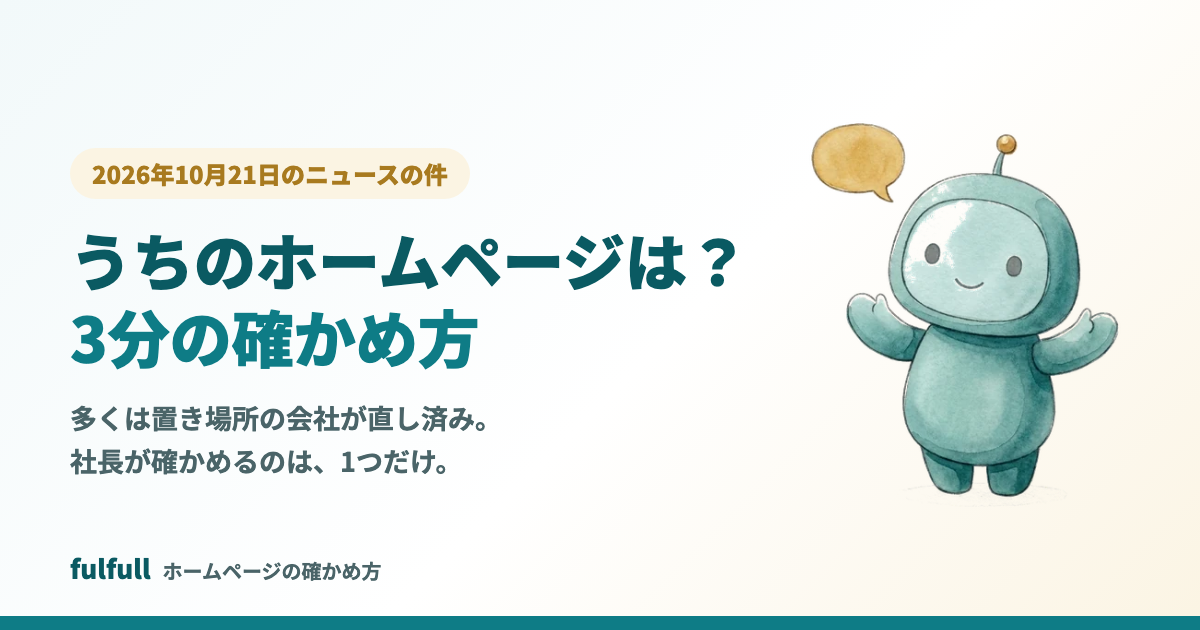
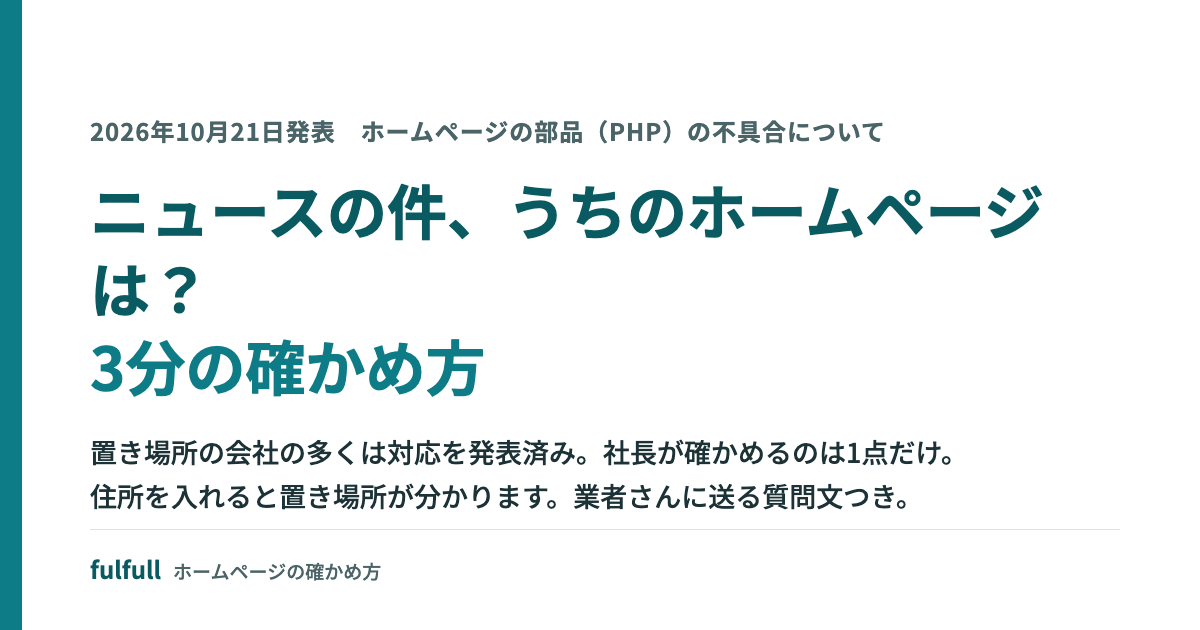
確かめ方ページを落ち着いた会社向けの見た目に（ロボ・絵文字・動きを外す）

Changed region(s): [[0.0617, 0.181, 0.9558, 0.8143], [0.0, 0.0, 1.0, 1.0], [0.0617, 0.8746, 0.3083, 0.9349]]

diff --git a/check/index.html b/check/index.html
@@ -19,94 +19,89 @@
 <link rel="preconnect" href="https://fonts.gstatic.com" crossorigin>
 <link rel="stylesheet" href="https://fonts.googleapis.com/css2?family=Noto+Sans+JP:wght@500;700;800;900&display=swap">
 <style>
-:root{color-scheme:light;--teal:#0E7C86;--deep:#0A5A62;--ink:#1C3236;--ink2:#4A6468;--soft:#EEF6F7;--line:#D5E4E6;--gold:#7F5C14;--goldfill:#D9A441;--goldbg:#FBF4E3;--bg:#fff;--ok:#1E7D5A;--okbg:#EAF6F0;--ng:#A8483A;--ngbg:#FBEEEB;--gray:#5E6B6D;--graybg:#F1F3F3;--lineg:#06C755;--font:"Noto Sans JP","Hiragino Sans","Hiragino Kaku Gothic ProN",sans-serif}
+:root{color-scheme:light;--teal:#0E7C86;--deep:#0A5A62;--ink:#1C3236;--ink2:#4A6468;--soft:#F3F7F8;--line:#D5E4E6;--gold:#7F5C14;--goldfill:#D9A441;--goldbg:#FBF4E3;--bg:#fff;--ok:#1E7D5A;--okbg:#EAF6F0;--ng:#A8483A;--ngbg:#FBEEEB;--gray:#5E6B6D;--graybg:#F1F3F3;--lineg:#06C755;--font:"Noto Sans JP","Hiragino Sans","Hiragino Kaku Gothic ProN",sans-serif}
 *{box-sizing:border-box}html{scroll-behavior:smooth}
 body{margin:0;background:var(--bg);color:var(--ink);font-family:var(--font);font-size:18px;font-weight:500;line-height:1.9}
 img{max-width:100%;height:auto}a{color:var(--teal);font-weight:700}
 p{margin:0 0 .9em}p,li,h1,h2,h3,dd{text-wrap:pretty}h1,h2,h3,li,td,summary,.note{word-break:auto-phrase}
-b,strong{font-weight:800;color:var(--deep)}
+b,strong{font-weight:700;color:var(--deep)}
 .wrap{max-width:980px;margin:0 auto;padding-inline:20px}.narrow{max-width:760px;margin:0 auto;padding-inline:20px}
 .note{font-size:15.5px;color:var(--ink2)}
-h1{font-size:clamp(28px,5.6vw,44px);font-weight:900;line-height:1.35;margin:0 0 14px;color:var(--deep);text-wrap:balance}
+h1{font-size:clamp(27px,5vw,40px);font-weight:700;line-height:1.4;margin:0 0 16px;color:var(--deep);text-wrap:balance}
 h1 em{font-style:normal;color:var(--teal)}
-h2{font-size:clamp(24px,4.2vw,32px);font-weight:900;line-height:1.4;margin:0 0 16px;color:var(--deep);text-wrap:balance}
-h3{font-size:20px;font-weight:800;margin:0 0 8px;color:var(--teal)}
-section{padding-block:52px}section.soft{background:var(--soft)}
-.top{position:sticky;top:0;z-index:10;background:rgba(255,255,255,.96);border-bottom:1px solid var(--line)}
-.top .wrap{display:flex;align-items:center;justify-content:space-between;gap:12px;padding-block:10px}
-.brand{display:flex;align-items:baseline;gap:8px;text-decoration:none;color:var(--deep);min-width:0}.brand b{font-size:20px}.brand span{font-size:14px;color:var(--ink2);font-weight:700;white-space:nowrap}
-.top .mini{background:var(--lineg);color:#fff;border-radius:999px;padding:8px 16px;font-size:15px;text-decoration:none;white-space:nowrap;font-weight:800}
-.hero{padding-block:40px 36px;background:linear-gradient(180deg,#F6FBFB 0%,#fff 100%)}
-.hero .wrap{display:grid;grid-template-columns:1.25fr .75fr;gap:28px;align-items:center}
-.hero img{width:100%;max-width:300px;justify-self:center;animation:bob 4s ease-in-out infinite}
-@keyframes bob{0%,100%{transform:translateY(0)}50%{transform:translateY(-7px)}}
-.eyebrow{display:inline-block;background:var(--goldbg);color:var(--gold);border-radius:999px;padding:4px 14px;font-weight:800;font-size:14.5px;margin-bottom:12px}
-.lead{font-size:19px;color:var(--ink2)}
-.btn{display:inline-block;background:var(--lineg);color:#fff;text-decoration:none;font-weight:900;font-size:18px;border-radius:999px;padding:16px 28px;box-shadow:0 6px 18px rgba(6,199,85,.28);transition:transform .15s}
-.btn:hover{transform:translateY(-2px)}
-.btn.teal{background:var(--teal);box-shadow:0 6px 18px rgba(14,124,134,.25)}
-.btn.outline{background:#fff;color:var(--deep);border:2px solid var(--line);box-shadow:none}
-.btn.sm{font-size:16px;padding:11px 20px;box-shadow:none}
+h2{font-size:clamp(22px,3.8vw,28px);font-weight:700;line-height:1.45;margin:0 0 16px;color:var(--deep);text-wrap:balance;padding-left:14px;border-left:4px solid var(--teal)}
+h3{font-size:19px;font-weight:700;margin:0 0 8px;color:var(--deep)}
+section{padding-block:48px}section.soft{background:var(--soft)}
+.top{position:sticky;top:0;z-index:10;background:#fff;border-bottom:1px solid var(--line)}
+.top .wrap{display:flex;align-items:center;justify-content:space-between;gap:12px;padding-block:12px}
+.brand{display:flex;align-items:baseline;gap:10px;text-decoration:none;color:var(--deep);min-width:0}.brand b{font-size:19px;font-weight:700}.brand span{font-size:14px;color:var(--ink2);font-weight:500;white-space:nowrap}
+.top .mini{background:var(--lineg);color:#fff;border-radius:6px;padding:8px 16px;font-size:15px;text-decoration:none;white-space:nowrap;font-weight:700}
+.hero{padding-block:44px 40px;border-bottom:1px solid var(--line)}
+.hero .wrap{display:grid;grid-template-columns:1fr;gap:20px}
+.eyebrow{display:block;color:var(--ink2);font-weight:700;font-size:14.5px;letter-spacing:.04em;margin-bottom:14px}
+.lead{font-size:18.5px;color:var(--ink)}
+.btn{display:inline-block;background:var(--lineg);color:#fff;text-decoration:none;font-weight:700;font-size:18px;border-radius:6px;padding:15px 28px}
+.btn.teal{background:var(--teal)}
+.btn.outline{background:#fff;color:var(--deep);border:1px solid var(--deep)}
+.btn.sm{font-size:16px;padding:11px 20px}
 .btnnote{text-wrap:balance;font-size:15.5px;color:var(--ink2);margin-top:8px}
-.scene{background:#fff;border:2px solid var(--line);border-radius:18px;padding:22px 24px;margin:18px 0}
-.scene .q{font-weight:800;color:var(--deep);font-size:19px}
+.scene{background:var(--soft);border-left:4px solid var(--teal);padding:20px 24px;margin:0 0 22px}
+.scene .q{font-weight:700;color:var(--deep);font-size:18.5px}
 .checks{list-style:none;padding:0;margin:18px 0;display:grid;gap:10px}
-.checks li{padding-left:40px;position:relative;font-weight:700;color:var(--deep)}
-.checks li:before{content:"✓";position:absolute;left:0;top:2px;width:28px;height:28px;border-radius:50%;background:var(--teal);color:#fff;font-weight:900;display:grid;place-items:center;font-size:16px}
+.checks li{padding-left:34px;position:relative;font-weight:700;color:var(--deep)}
+.checks li:before{content:"";position:absolute;left:4px;top:11px;width:16px;height:9px;border-left:3px solid var(--teal);border-bottom:3px solid var(--teal);transform:rotate(-45deg)}
 .checks span{display:block;font-weight:500;color:var(--ink);font-size:17px}
 .tatoe{display:grid;grid-template-columns:1fr 1fr 1fr;gap:12px;margin:22px 0;align-items:stretch}
-.tatoe div{background:#fff;border-radius:16px;padding:18px;text-align:center;border:2px solid var(--line);min-width:0}
-.tatoe .ic{font-size:40px;line-height:1;margin-bottom:8px}
+.tatoe>div{background:#fff;border:1px solid var(--line);padding:18px;min-width:0}
+.tatoe .ic{width:40px;height:40px;margin-bottom:10px;color:var(--teal)}
+.tatoe .ic svg{width:40px;height:40px;stroke:currentColor;fill:none;stroke-width:1.8;stroke-linecap:round;stroke-linejoin:round}
 .tatoe b{display:block;font-size:17px}
 .tatoe small{text-wrap:balance;display:block;color:var(--ink2);font-size:15px;line-height:1.6;margin-top:6px}
-.robo{display:flex;gap:14px;align-items:flex-start;margin:22px 0}
-.robo img{width:84px;flex:0 0 auto}
-.robo .bub{flex:1;min-width:0;background:#fff;border:2px solid var(--line);border-radius:18px;padding:14px 18px;position:relative;font-size:18px}
-.robo .bub:before{content:"";position:absolute;left:-12px;top:26px;border:7px solid transparent;border-right-color:var(--line)}
-.robo .bub .who{display:block;font-size:14.5px;color:var(--ink2);font-weight:700;margin-bottom:4px}
-.koe{display:flex;flex-wrap:wrap;gap:10px;margin:14px 0 18px}
-.koe span{background:#fff;border:2px solid var(--line);border-radius:999px;padding:6px 16px;font-weight:700;color:var(--deep);font-size:16.5px}
+.memo{background:#fff;border:1px solid var(--line);border-top:3px solid var(--teal);padding:16px 20px;margin:22px 0;font-size:18px}
+.memo .who{display:block;font-size:14.5px;color:var(--ink2);font-weight:700;margin-bottom:4px}
+.koe{display:grid;gap:8px;margin:14px 0 18px;padding:0;list-style:none}
+.koe li{padding:8px 16px;border-left:3px solid var(--goldfill);font-weight:700;color:var(--deep);font-size:17px;background:#fff}
 .steps{counter-reset:s;display:grid;gap:28px;margin:20px 0}
-.step{display:grid;grid-template-columns:52px 1fr;gap:14px;align-items:start}
-.step:before{counter-increment:s;content:counter(s);width:52px;height:52px;border-radius:50%;background:var(--teal);color:#fff;font-weight:900;font-size:24px;display:grid;place-items:center}
-.step>div{min-width:0;border-left:3px solid var(--line);padding-left:16px}
+.step{display:grid;grid-template-columns:48px 1fr;gap:14px;align-items:start}
+.step:before{counter-increment:s;content:counter(s);width:48px;height:48px;background:var(--deep);color:#fff;font-weight:700;font-size:22px;display:grid;place-items:center}
+.step>div{min-width:0;border-left:1px solid var(--line);padding-left:16px}
 .step h3{margin-top:8px}
-.checker{background:#fff;border:3px solid var(--teal);border-radius:20px;padding:22px 22px;margin:14px 0}
-.checker label{display:block;font-weight:800;color:var(--deep);margin-bottom:8px}
+.checker{background:#fff;border:1px solid var(--line);border-top:3px solid var(--teal);padding:22px 22px;margin:14px 0}
+.checker label{display:block;font-weight:700;color:var(--deep);margin-bottom:8px}
 .upd{font-size:14.5px;color:var(--ink2);margin:0 0 10px}
 .inrow{display:flex;gap:10px;flex-wrap:wrap}
-.inrow input{flex:1 1 240px;min-width:0;font:inherit;font-size:19px;padding:14px 16px;border:2px solid var(--line);border-radius:12px}
+.inrow input{flex:1 1 240px;min-width:0;font:inherit;font-size:19px;padding:13px 16px;border:1px solid #9FB8BB;border-radius:6px}
 .inrow input:focus{outline:3px solid var(--goldfill);outline-offset:2px;border-color:var(--teal)}
-.inrow button{font:inherit;font-weight:900;font-size:18px;background:var(--teal);color:#fff;border:0;border-radius:12px;padding:14px 24px;cursor:pointer}
+.inrow button{font:inherit;font-weight:700;font-size:18px;background:var(--teal);color:#fff;border:0;border-radius:6px;padding:13px 24px;cursor:pointer}
 .inrow button:disabled{opacity:.6;cursor:wait}
-.result{margin-top:18px;display:none;overflow-wrap:anywhere}
+.result{margin-top:18px;display:none;overflow-wrap:anywhere;border-top:1px solid var(--line);padding-top:16px}
 .result .head{display:flex;gap:10px;align-items:center;flex-wrap:wrap;margin-bottom:10px}
-.tag{display:inline-block;border-radius:999px;padding:4px 14px;font-weight:900;font-size:15px}
+.tag{display:inline-block;border-radius:4px;padding:3px 12px;font-weight:700;font-size:15px}
 .tag.ok{background:var(--okbg);color:var(--ok)}.tag.ng{background:var(--ngbg);color:var(--ng)}.tag.gray{background:var(--graybg);color:var(--gray)}.tag.gold{background:var(--goldbg);color:var(--gold)}
-.result .host{font-size:22px;font-weight:900;color:var(--deep)}
+.result .host{font-size:21px;font-weight:700;color:var(--deep)}
 .result dl{display:grid;grid-template-columns:auto 1fr;gap:6px 14px;margin:12px 0;font-size:18px}
-.result dt{font-weight:800;color:var(--ink2);white-space:nowrap}.result dd{margin:0;min-width:0}
+.result dt{font-weight:700;color:var(--ink2);white-space:nowrap}.result dd{margin:0;min-width:0}
 .result .src{font-size:15px;color:var(--ink2)}
 .result .next{display:flex;gap:10px;flex-wrap:wrap;margin-top:12px}
-.copybox{background:var(--soft);border-radius:14px;padding:16px 18px;position:relative;font-size:18px;white-space:pre-wrap;line-height:1.8}
-.copybtn{display:inline-block;margin-top:10px;font:inherit;font-weight:900;font-size:16px;background:var(--teal);color:#fff;border:0;border-radius:999px;padding:10px 20px;cursor:pointer}
+.copybox{background:var(--soft);border:1px solid var(--line);padding:16px 18px;position:relative;font-size:18px;white-space:pre-wrap;line-height:1.8}
+.copybtn{display:inline-block;margin-top:10px;font:inherit;font-weight:700;font-size:16px;background:var(--teal);color:#fff;border:0;border-radius:6px;padding:10px 20px;cursor:pointer}
 .copybtn.done{background:var(--ok)}
-.cta{background:var(--deep);color:#fff;padding:40px 22px;text-align:center;border-radius:22px}
-.cta h2{color:#fff}.cta p{color:#D9ECEE}.cta .btnnote{color:#E6F3F4;font-size:16px}
-.cta .btn{font-size:20px;padding:18px 34px}
+.cta{background:var(--deep);color:#fff;padding:36px 24px;text-align:center}
+.cta h2{color:#fff;border-left:0;padding-left:0}.cta p{color:#D9ECEE}.cta .btnnote{color:#E6F3F4;font-size:16px}
+.cta .btn{font-size:19px;padding:17px 34px}
 .price{display:grid;grid-template-columns:1fr 1fr;gap:16px;margin:18px 0}
-.price div{background:#fff;border:2px solid var(--line);border-radius:18px;padding:20px 22px;min-width:0}
-.price .big{font-size:34px;font-weight:900;color:var(--deep);line-height:1.2}
-.price .big small{font-size:16px;color:var(--ink2);font-weight:700}
-.faq details{background:#fff;border:2px solid var(--line);border-radius:14px;padding:12px 18px;margin:10px 0}
-.faq summary{font-weight:800;color:var(--deep);cursor:pointer;font-size:17.5px}
+.price div{background:#fff;border:1px solid var(--line);padding:20px 22px;min-width:0}
+.price .big{font-size:32px;font-weight:700;color:var(--deep);line-height:1.2}
+.price .big small{font-size:16px;color:var(--ink2);font-weight:500}
+.faq details{background:#fff;border:1px solid var(--line);padding:12px 18px;margin:8px 0}
+.faq summary{font-weight:700;color:var(--deep);cursor:pointer;font-size:17.5px}
 .faq details p{margin:10px 0 4px;font-size:18px}
 .jp{font-size:15px;color:var(--ink2)}
 footer{padding-block:36px;border-top:1px solid var(--line);font-size:15px;color:var(--ink2)}
 footer a{font-weight:700}
-@media (max-width:900px){.hero .wrap{grid-template-columns:1fr}.hero img{max-width:200px}.tatoe,.price{grid-template-columns:1fr}}
-@media (max-width:600px){.price .big{font-size:30px}.robo img{width:64px}.cta{padding:32px 14px}.cta .btn{font-size:17.5px;padding:16px 20px;white-space:nowrap}.step{grid-template-columns:40px 1fr;gap:10px}.step:before{width:40px;height:40px;font-size:18px}.step>div{padding-left:10px}.result dl{grid-template-columns:1fr;gap:2px 0}.result dt{margin-top:10px}.checker{padding:16px 14px}.inrow button{flex:1 1 100%}}
-@media (prefers-reduced-motion:reduce){html{scroll-behavior:auto}.hero img{animation:none}.btn{transition:none}}
+@media (max-width:900px){.tatoe,.price{grid-template-columns:1fr}}
+@media (max-width:600px){.price .big{font-size:28px}.cta{padding:30px 14px}.cta .btn{font-size:17.5px;padding:16px 20px;white-space:nowrap}.step{grid-template-columns:40px 1fr;gap:10px}.step:before{width:40px;height:40px;font-size:18px}.step>div{padding-left:10px}.result dl{grid-template-columns:1fr;gap:2px 0}.result dt{margin-top:10px}.checker{padding:16px 14px}.inrow button{flex:1 1 100%}}
+@media (prefers-reduced-motion:reduce){html{scroll-behavior:auto}}
 a:focus-visible,button:focus-visible,summary:focus-visible{outline:3px solid var(--goldfill);outline-offset:2px}
 </style>
 </head>
@@ -121,13 +116,12 @@ a:focus-visible,button:focus-visible,summary:focus-visible{outline:3px solid var
 
 <div class="hero"><div class="wrap">
   <div>
-    <div class="eyebrow">2026年10月21日発表・ホームページの部品の不具合</div>
+    <span class="eyebrow">2026年10月21日発表　ホームページの部品（PHP）の不具合について</span>
     <h1>ニュースの件、<br>うちのホームページは？<br><em>3分の確かめ方</em></h1>
     <p class="lead">置き場所の会社の多くは、10月22日までに直す作業を終えたと発表しています。<br>社長が確かめるのは、「古いバージョンを選んだままになっていないか」の1点です。<br>下にホームページの住所（www.〜）を入れると、多くの場合、置き場所の会社とその対応が分かります。</p>
     <p><a class="btn teal" href="#check">住所を入れて確かめる</a></p>
     <p class="btnnote">業者さんに送る質問文と、取引先に聞かれたときの一言も、下に置いてあります。</p>
   </div>
-  <img src="../img/mascot_invite.webp" alt="" width="300" height="300">
 </div></div>
 
 <section><div class="narrow">
@@ -146,17 +140,17 @@ a:focus-visible,button:focus-visible,summary:focus-visible{outline:3px solid var
   <h2>何が起きたのか。ビルにたとえると、こうです</h2>
   <p>ホームページは、ビルに入っているテナントのお店のようなものです。<br>お店（ホームページ）は、ビルの共用設備（ホームページを動かしている部品「PHP」）の上で動いています。<br>10月21日の夜、その共用設備に不具合が見つかり、直したバージョン（版）が出ました。</p>
   <div class="tatoe">
-    <div><div class="ic">🏢</div><b>共用設備＝PHP</b><small>ここに不具合。直すのは管理会社の仕事です</small></div>
-    <div><div class="ic">🔧</div><b>管理会社＝置き場所の会社</b><small>エックスサーバー、さくら、ロリポップ など。多くは10月22日までに作業を終えています</small></div>
-    <div><div class="ic">🏬</div><b>お店＝ホームページ</b><small>社長が見るのは、古い設備のままになっていないか、です</small></div>
+    <div><div class="ic"><svg viewBox="0 0 24 24" aria-hidden="true"><rect x="4" y="3" width="16" height="18" rx="1"/><path d="M8 7h3M13 7h3M8 11h3M13 11h3M8 15h3M13 15h3M10 21v-3h4v3"/></svg></div><b>共用設備＝PHP</b><small>ここに不具合。直すのは管理会社の仕事です</small></div>
+    <div><div class="ic"><svg viewBox="0 0 24 24" aria-hidden="true"><path d="M14.5 6.5a4 4 0 0 0 5 5l-9 9a2 2 0 0 1-3-3l9-9z"/><path d="M15 3l6 6"/></svg></div><b>管理会社＝置き場所の会社</b><small>エックスサーバー、さくら、ロリポップ など。多くは10月22日までに作業を終えています</small></div>
+    <div><div class="ic"><svg viewBox="0 0 24 24" aria-hidden="true"><path d="M3 9l1.5-5h15L21 9"/><path d="M3 9a3 3 0 0 0 6 0 3 3 0 0 0 6 0 3 3 0 0 0 6 0"/><path d="M5 12v9h14v-9M10 21v-5h4v5"/></svg></div><b>お店＝ホームページ</b><small>社長が見るのは、古い設備のままになっていないか、です</small></div>
   </div>
-  <div class="robo"><img src="../img/mascot_think.webp" alt="" width="84" height="84"><div class="bub">ホームページの作成ソフト（WordPress）や追加機能（プラグイン）を最新にしても、この部品は変わりません。<br>レンタルサーバーなら、直すのは置き場所の会社の仕事です。<br>慌てて触る必要はなく、確かめるだけで足ります。</div></div>
+  <div class="memo">ホームページの作成ソフト（WordPress）や追加機能（プラグイン）を最新にしても、この部品は変わりません。<br>レンタルサーバーなら、直すのは置き場所の会社の仕事です。<br>慌てて触る必要はなく、確かめるだけで足ります。</div>
   <p class="note">国も注意を呼びかけている話ですが、社長の確認は小さなものです。<br>8.1以前の古いバージョンは公式の直した版が出ていません。置き場所の会社が独自に直している場合が多いですが、新しいバージョンへの切り替えがすすめられています。<br>自社サーバーやクラウドに置いている会社は、業者さんかIT担当の方に聞いてください。</p>
 </div></section>
 
 <section><div class="narrow">
   <h2>つまずきやすいのは、この3つ</h2>
-  <div class="koe"><span>「誰に聞けばいいのか分からない」</span><span>「業者さんと連絡がつかない」</span><span>「管理画面を見たことがない」</span></div>
+  <ul class="koe"><li>「誰に聞けばいいのか分からない」</li><li>「業者さんと連絡がつかない」</li><li>「管理画面を見たことがない」</li></ul>
   <p>どれも、よくあることです。<br>置き場所の会社が分かれば、次に聞く相手が決まります。</p>
 </div></section>
 
@@ -221,7 +215,7 @@ a:focus-visible,button:focus-visible,summary:focus-visible{outline:3px solid var
 <section id="line"><div class="narrow">
   <h2>業者さんがいなくても、住所を送れば次の一手が分かります</h2>
   <p>ホームページの住所だけ、LINEで送ってください。<br>インターネットに公開されている情報から、置き場所の会社と、部品のバージョンが分かるかを調べて、メモでお返しします。<br>分かるのは外から見える範囲までです。そのうえで、次に聞く相手をお伝えします。<br>ご自分の会社のホームページに限ります。</p>
-  <div class="robo"><img src="../img/mascot_point.webp" alt="" width="84" height="84"><div class="bub"><span class="who">fulfull 森川より</span>僕の会社のホームページも、古い部品（8.0）のままでした。<br>控えを取って 8.3 に替え、使っていない古いサイトは閉じました。<br>同じことを、僕も今週やっています。</div></div>
+  <div class="memo"><span class="who">fulfull 森川より</span>僕の会社のホームページも、古い部品（8.0）のままでした。<br>控えを取って 8.3 に替え、使っていない古いサイトは閉じました。<br>同じことを、僕も今週やっています。</div>
   <div class="cta">
     <h2>住所を送ると、外から見えた範囲のメモが届きます</h2>
     <p>無料です。お返しはメモだけで、商品のご案内は入れません。</p>
